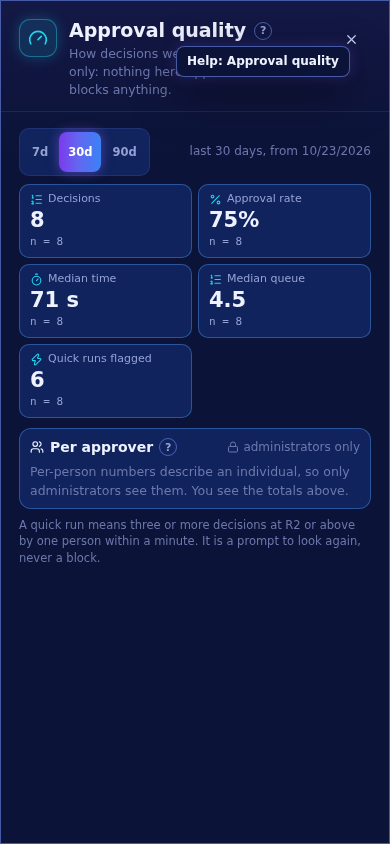
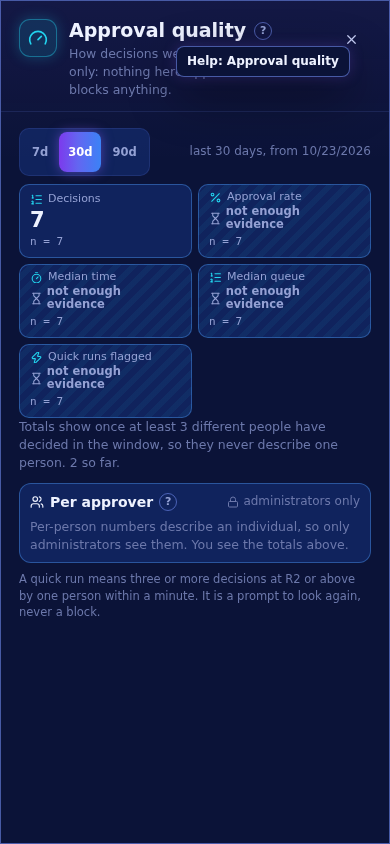
fix(c58 F7): api-c58 checks the dialog against a real server response; the harness creates a real request whose flags fire
The e2e harness (e2e DBs only) gives an agent a real brief and asks a real release approval through requestApproval, so the server derives the flags. api-c58 also covers the member floor (two approvers), fixed windows and demo exclusion.

diff --git a/server/src/cli/e2e-extra-approvals.ts b/server/src/cli/e2e-extra-approvals.ts
@@ -1,17 +1,31 @@
 /**
- * Harness only (api-c58.mjs): adds N more pending approvals to the e2e database so the approval-quality statistics can reach five decisions
- * (the demo seed has four). Refuses any database that is not an axion_e2e one, like e2e-serve.ts.
+ * Harness only (api-c58.mjs), e2e databases only (isE2eDatabaseUrl). Usage: e2e-extra-approvals.ts <n> [--fired]
+ *  - adds n pending, non-demo approvals (kind submit_form) to the mission of the first live agent instance, so the approval-quality statistics can
+ *    reach five decisions (demo requests are never counted);
+ *  - with --fired, first gives that agent a real delegation brief (read at an origin, plus release) and asks a real `release` approval through
+ *    requestApproval, so the server itself derives all three Rule-of-Two flags and the rule fires. Nothing about the flags is written by hand.
+ * Prints one JSON line: { missionId, firedId }.
  */
 import { makePool, tx } from '../db.ts';
-import { isE2eDatabaseUrl } from './e2e-url.ts';
 import { requestApproval } from '../approvals/service.ts';
+import { DelegationBriefIn, briefSha } from '../delegation/brief.ts';
+import { isE2eDatabaseUrl } from './e2e-url.ts';
 
 const url = process.env.E2E_DATABASE_URL;
 if (!isE2eDatabaseUrl(url)) throw new Error('E2E_DATABASE_URL must point at axion_e2e or axion_e2e<N>');
 const n = Number(process.argv[2] || 4);
+const fired = process.argv.includes('--fired');
 const pool = makePool(url, undefined, 1);
-const m = (await pool.query(`select id, tenant_id from missions where deleted_at is null order by id limit 1`)).rows[0];
-if (!m) throw new Error('no mission in the e2e database yet: sign in first');
-for (let i = 0; i < n; i++) await tx(pool, (c) => requestApproval(c, { tenantId: m.tenant_id, missionId: m.id, agentId: 'release-01', kind: 'submit_form', title: `Extra approval ${i + 1}`, detail: 'Added by the e2e harness for the statistics.', payload: { extra: i }, expiresInMin: 24 * 60 }));
+const inst = (await pool.query(`select i.id, i.tenant_id, i.mission_id, i.agent_id from agent_instances i join missions m on m.id=i.mission_id where i.ended_at is null and m.deleted_at is null order by i.mission_id, i.seq limit 1`)).rows[0];
+if (!inst) throw new Error('no live agent instance in the e2e database yet: sign in first');
+// the plain requests come first: the flags describe the agent's configuration, so once it holds the brief below every request of that agent fires
+for (let i = 0; i < n; i++) await tx(pool, (c) => requestApproval(c, { tenantId: inst.tenant_id, missionId: inst.mission_id, agentId: inst.agent_id, kind: 'submit_form', title: `Extra approval ${i + 1}`, detail: 'Added by the e2e harness for the statistics.', payload: { extra: i }, expiresInMin: 24 * 60 }));
+let firedId: string | null = null;
+if (fired) {
+  const brief = DelegationBriefIn.parse({ goal: 'Check the status page and ship the release', inputs: [], acceptance: ['The release is shipped'], capabilities: [{ kind: 'read', origin: 'https://example.com' }, { kind: 'release' }], escalation: 'Ask the mission owner' });
+  await pool.query(`insert into delegation_briefs(tenant_id, mission_id, from_id, from_kind, to_instance, to_agent, brief, sha256, depth, created_by) values ($1,$2,'c58-harness','user',$3,$4,$5,$6,1,'c58-harness')`,
+    [inst.tenant_id, inst.mission_id, inst.id, inst.agent_id, JSON.stringify(brief), briefSha(brief)]);
+  firedId = (await tx(pool, (c) => requestApproval(c, { tenantId: inst.tenant_id, missionId: inst.mission_id, agentId: inst.agent_id, kind: 'release', title: 'Ship release (Rule of Two fires)', detail: 'Created by the e2e harness through requestApproval; the server derived the flags.', payload: { harness: 'fired' }, expiresInMin: 24 * 60 }))).id;
+}
 await pool.end();
-console.log(`added ${n} approvals on ${m.id}`);
+console.log(JSON.stringify({ missionId: inst.mission_id, firedId }));

diff --git a/web/src/theme/pages/c58-approval-quality.css b/web/src/theme/pages/c58-approval-quality.css
@@ -12,7 +12,7 @@
 .aq-cell.none { background: repeating-linear-gradient(135deg, transparent 0 6px, rgba(var(--accent-2-rgb), .05) 6px 12px), var(--panel-2); }
 .aq-people { margin-top: 10px; padding: 8px 10px; border-radius: 12px; background: var(--panel-2); border: 1px solid var(--border); }
 .aq-ph { gap: 6px; margin-bottom: 6px; }
-.aq-note { font-size: 12.5px; margin: 0; }
+.aq-note { font-size: 12.5px; margin: 8px 0 0; }
 .aq-table { width: 100%; border-collapse: collapse; font-size: 12.5px; }
 .aq-table th, .aq-table td { padding: 5px 6px; text-align: left; border-bottom: 1px solid var(--border-soft); font-weight: 500; }
 .aq-table thead th { font-size: 11px; color: var(--text-muted); font-weight: 600; }
